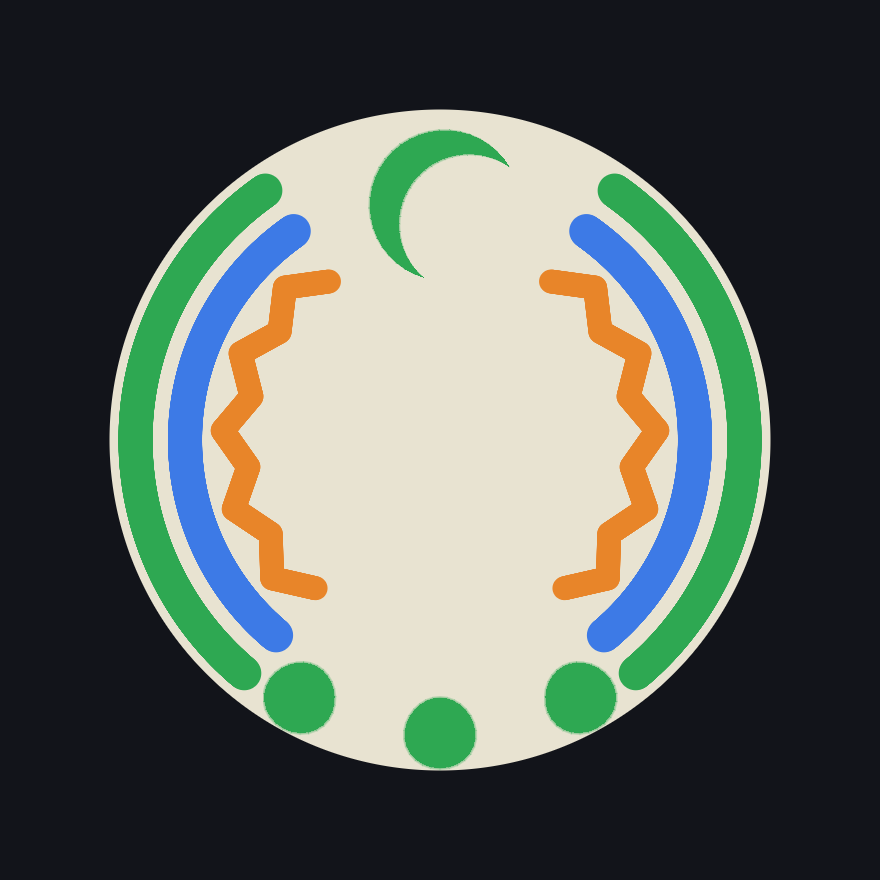
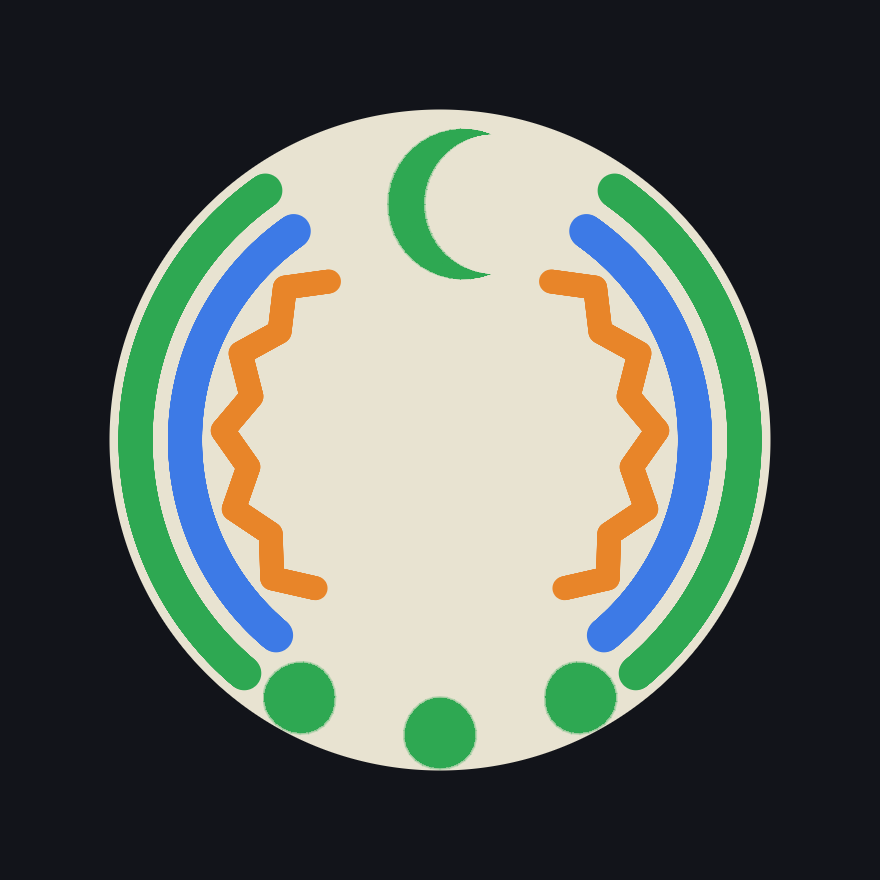
fix(game): keep the crescent moon upright and unrotated
Draw the moon as a world-axis C in the notch so it does not follow
the tile arc. Leave Two Zag Zs unchanged.

Changed region(s): [[0.3989, 0.1227, 0.583, 0.3375]]

diff --git a/apa-kan/game/src/visual.rs b/apa-kan/game/src/visual.rs
@@ -1010,7 +1010,7 @@ impl TileRingDraw {
 		(self.crescent_radius() * 0.92).max(zag_h + stroke * 0.55)
 	}
 
-	/// Thin two-circle crescent (waning/waxing sliver), opening right/down-right.
+	/// Thin two-circle crescent, upright in world axes (does not rotate with the tile).
 	pub fn crescent_poly(
 		self,
 		tile_center: [f32; 2],
@@ -1109,27 +1109,29 @@ fn crescent_on_arc(origin: [f32; 2], theta: f32, rho: f32, r: f32) -> Vec<[f32; 
 }
 
 /// Thin ~20% sliver: outer disc minus a similar disc offset toward the opening.
-/// Opening is right / lower-right in tile-up `(s, n)` (`+s` right, `+n` toward the rim).
+/// Upright in world axes: opening +X (right), horns along ±Y. Translated into
+/// the notch; the shape does not rotate with the tile or emblem slot.
 fn crescent_arcs(origin: [f32; 2], theta: f32, rho: f32, r: f32) -> (Vec<[f32; 2]>, Vec<[f32; 2]>) {
-	use std::f32::consts::PI;
 	let n = TILE_MARK_DOT_SAMPLES.max(20);
 	let outer_r = r;
 	let inner_r = r * 0.93;
 	let offset = r * 0.40;
-	// ~−38° from +s toward −n: horns point right and down-right, back is upper-left.
-	let open = -38.0 * PI / 180.0;
-	let (os, on) = (open.cos(), open.sin());
 	let c0 = [0.0_f32, 0.0_f32];
-	let c1 = [offset * os, offset * on];
+	let c1 = [offset, 0.0];
 	let Some((p, q)) = circle_circle_hits(c0, outer_r, c1, inner_r) else {
 		return (Vec::new(), Vec::new());
 	};
-	let back = [-os * outer_r, -on * outer_r];
-	let terminator = [c1[0] - os * inner_r, c1[1] - on * inner_r];
+	let back = [-outer_r, 0.0];
+	let terminator = [c1[0] - inner_r, 0.0];
 	let mut outer = sample_circle_arc(c0, outer_r, p, q, back, n);
 	let mut inner = sample_circle_arc(c1, inner_r, p, q, terminator, n);
 	center_local_pair(&mut outer, &mut inner);
-	(emblem_warp(origin, theta, rho, &outer), emblem_warp(origin, theta, rho, &inner))
+	let slot = polar_point(origin, theta, rho);
+	(translate_pts(&outer, slot), translate_pts(&inner, slot))
+}
+
+fn translate_pts(pts: &[[f32; 2]], slot: [f32; 2]) -> Vec<[f32; 2]> {
+	pts.iter().map(|p| [p[0] + slot[0], p[1] + slot[1]]).collect()
 }
 
 fn crescent_tris_on_arc(origin: [f32; 2], theta: f32, rho: f32, r: f32) -> Vec<[[f32; 2]; 3]> {
@@ -1214,12 +1216,6 @@ fn center_local_pair(a: &mut [[f32; 2]], b: &mut [[f32; 2]]) {
 fn emblem_local_to_world(origin: [f32; 2], theta: f32, rho: f32, s: f32, n: f32) -> [f32; 2] {
 	let (ct, st) = (theta.cos(), theta.sin());
 	[origin[0] + (rho + n) * ct - s * st, origin[1] + (rho + n) * st + s * ct]
-}
-
-fn emblem_warp(origin: [f32; 2], theta: f32, rho: f32, pts: &[[f32; 2]]) -> Vec<[f32; 2]> {
-	pts.iter()
-		.map(|p| emblem_local_to_world(origin, theta, rho, p[0], p[1]))
-		.collect()
 }
 
 fn zag_zigzag_upright(
@@ -4389,6 +4385,12 @@ mod tests {
 				);
 			}
 		}
+		fn poly_centroid(poly: &[[f32; 2]]) -> (f32, f32) {
+			let n = poly.len() as f32;
+			let x = poly.iter().map(|p| p[0]).sum::<f32>() / n;
+			let y = poly.iter().map(|p| p[1]).sum::<f32>() / n;
+			(x, y)
+		}
 		let poly = draw.crescent_poly([0.0, 0.0], r, up);
 		assert!(poly.len() > 12, "crescent is a two-circle sliver");
 		let tris = draw.crescent_tris([0.0, 0.0], r, up);
@@ -4422,12 +4424,23 @@ mod tests {
 			max_y - min_y,
 			draw.gap
 		);
-		assert!(poly.iter().any(|p| p[0] > 0.0), "horns open toward +s (right)");
+		assert!(poly.iter().any(|p| p[0] > 0.0), "horns open toward +X (right)");
 		assert!(min_x < 0.0, "back of the sliver sits on the left");
 		assert!(
-			left_y > mean_y,
-			"back of the crescent sits upper-left, left_y={left_y} mean_y={mean_y}"
+			(left_y - mean_y).abs() < (max_y - min_y) * 0.12,
+			"upright crescent: back is at mid-height, left_y={left_y} mean_y={mean_y}"
 		);
+		assert!(max_y > left_y && min_y < left_y, "horns point up and down");
+		let tilted = draw.crescent_poly([0.0, 0.0], r, [1.0, 0.0]);
+		assert_eq!(tilted.len(), poly.len());
+		let (ax, ay) = poly_centroid(&poly);
+		let (bx, by) = poly_centroid(&tilted);
+		for (a, b) in poly.iter().zip(tilted.iter()) {
+			assert!(
+				(a[0] - ax - (b[0] - bx)).abs() < 1e-4 && (a[1] - ay - (b[1] - by)).abs() < 1e-4,
+				"crescent orientation is world-fixed, not the slot angle"
+			);
+		}
 		let zigs = draw.two_zag_z_polys([0.0, 0.0], r, up);
 		assert_eq!(zigs.len(), 2);
 		assert_eq!(zigs[0].len(), zigs[1].len());

diff --git a/rfc/rfc-001-001-006-emblems/README.md b/rfc/rfc-001-001-006-emblems/README.md
@@ -63,11 +63,11 @@ Mixed / braid / bead keep the default 200,1,1 (emblems stay rare). The picker sc
 
 ### Visual
 
-Emblems sit at the **top** of the tile, warped/rotated with the face like capture marks at the bottom.
+Emblems sit at the **top** of the tile.
 
 - Non-empty emblem: rings (normal, zag, braid, bead) open a ~70° **C-notch** at the top, same idea as the capture-mark notch.
 - Empty slot: full rings at the top.
-- Crescent Moon: a thin two-circle sliver (waxing/waning moon) filling the top notch, back on the upper-left, horns pointing right and down-right. Solid fill, no star. Fully inside the tile disc.
+- Crescent Moon: a thin two-circle sliver in a **fixed upright** orientation (does not rotate with the tile or the slot). Opening to the right, horns up and down. Solid fill, no star. Fully inside the tile disc.
 - Two Zag Zs: two identical parallel upright vertical zigzags (lightning: `>` stacked over `<`), sharp corners, uniform stroke. The pair rotates with the tile as a unit. Fully inside the tile disc.
 
 Desktop PNG close-ups: [`emblem_crescent_dot.png`](../../apa-kan/game/screenshots/emblem_crescent_dot.png), [`emblem_crescent_triangle.png`](../../apa-kan/game/screenshots/emblem_crescent_triangle.png), [`emblem_zs_dot.png`](../../apa-kan/game/screenshots/emblem_zs_dot.png), [`emblem_zs_triangle.png`](../../apa-kan/game/screenshots/emblem_zs_triangle.png).
